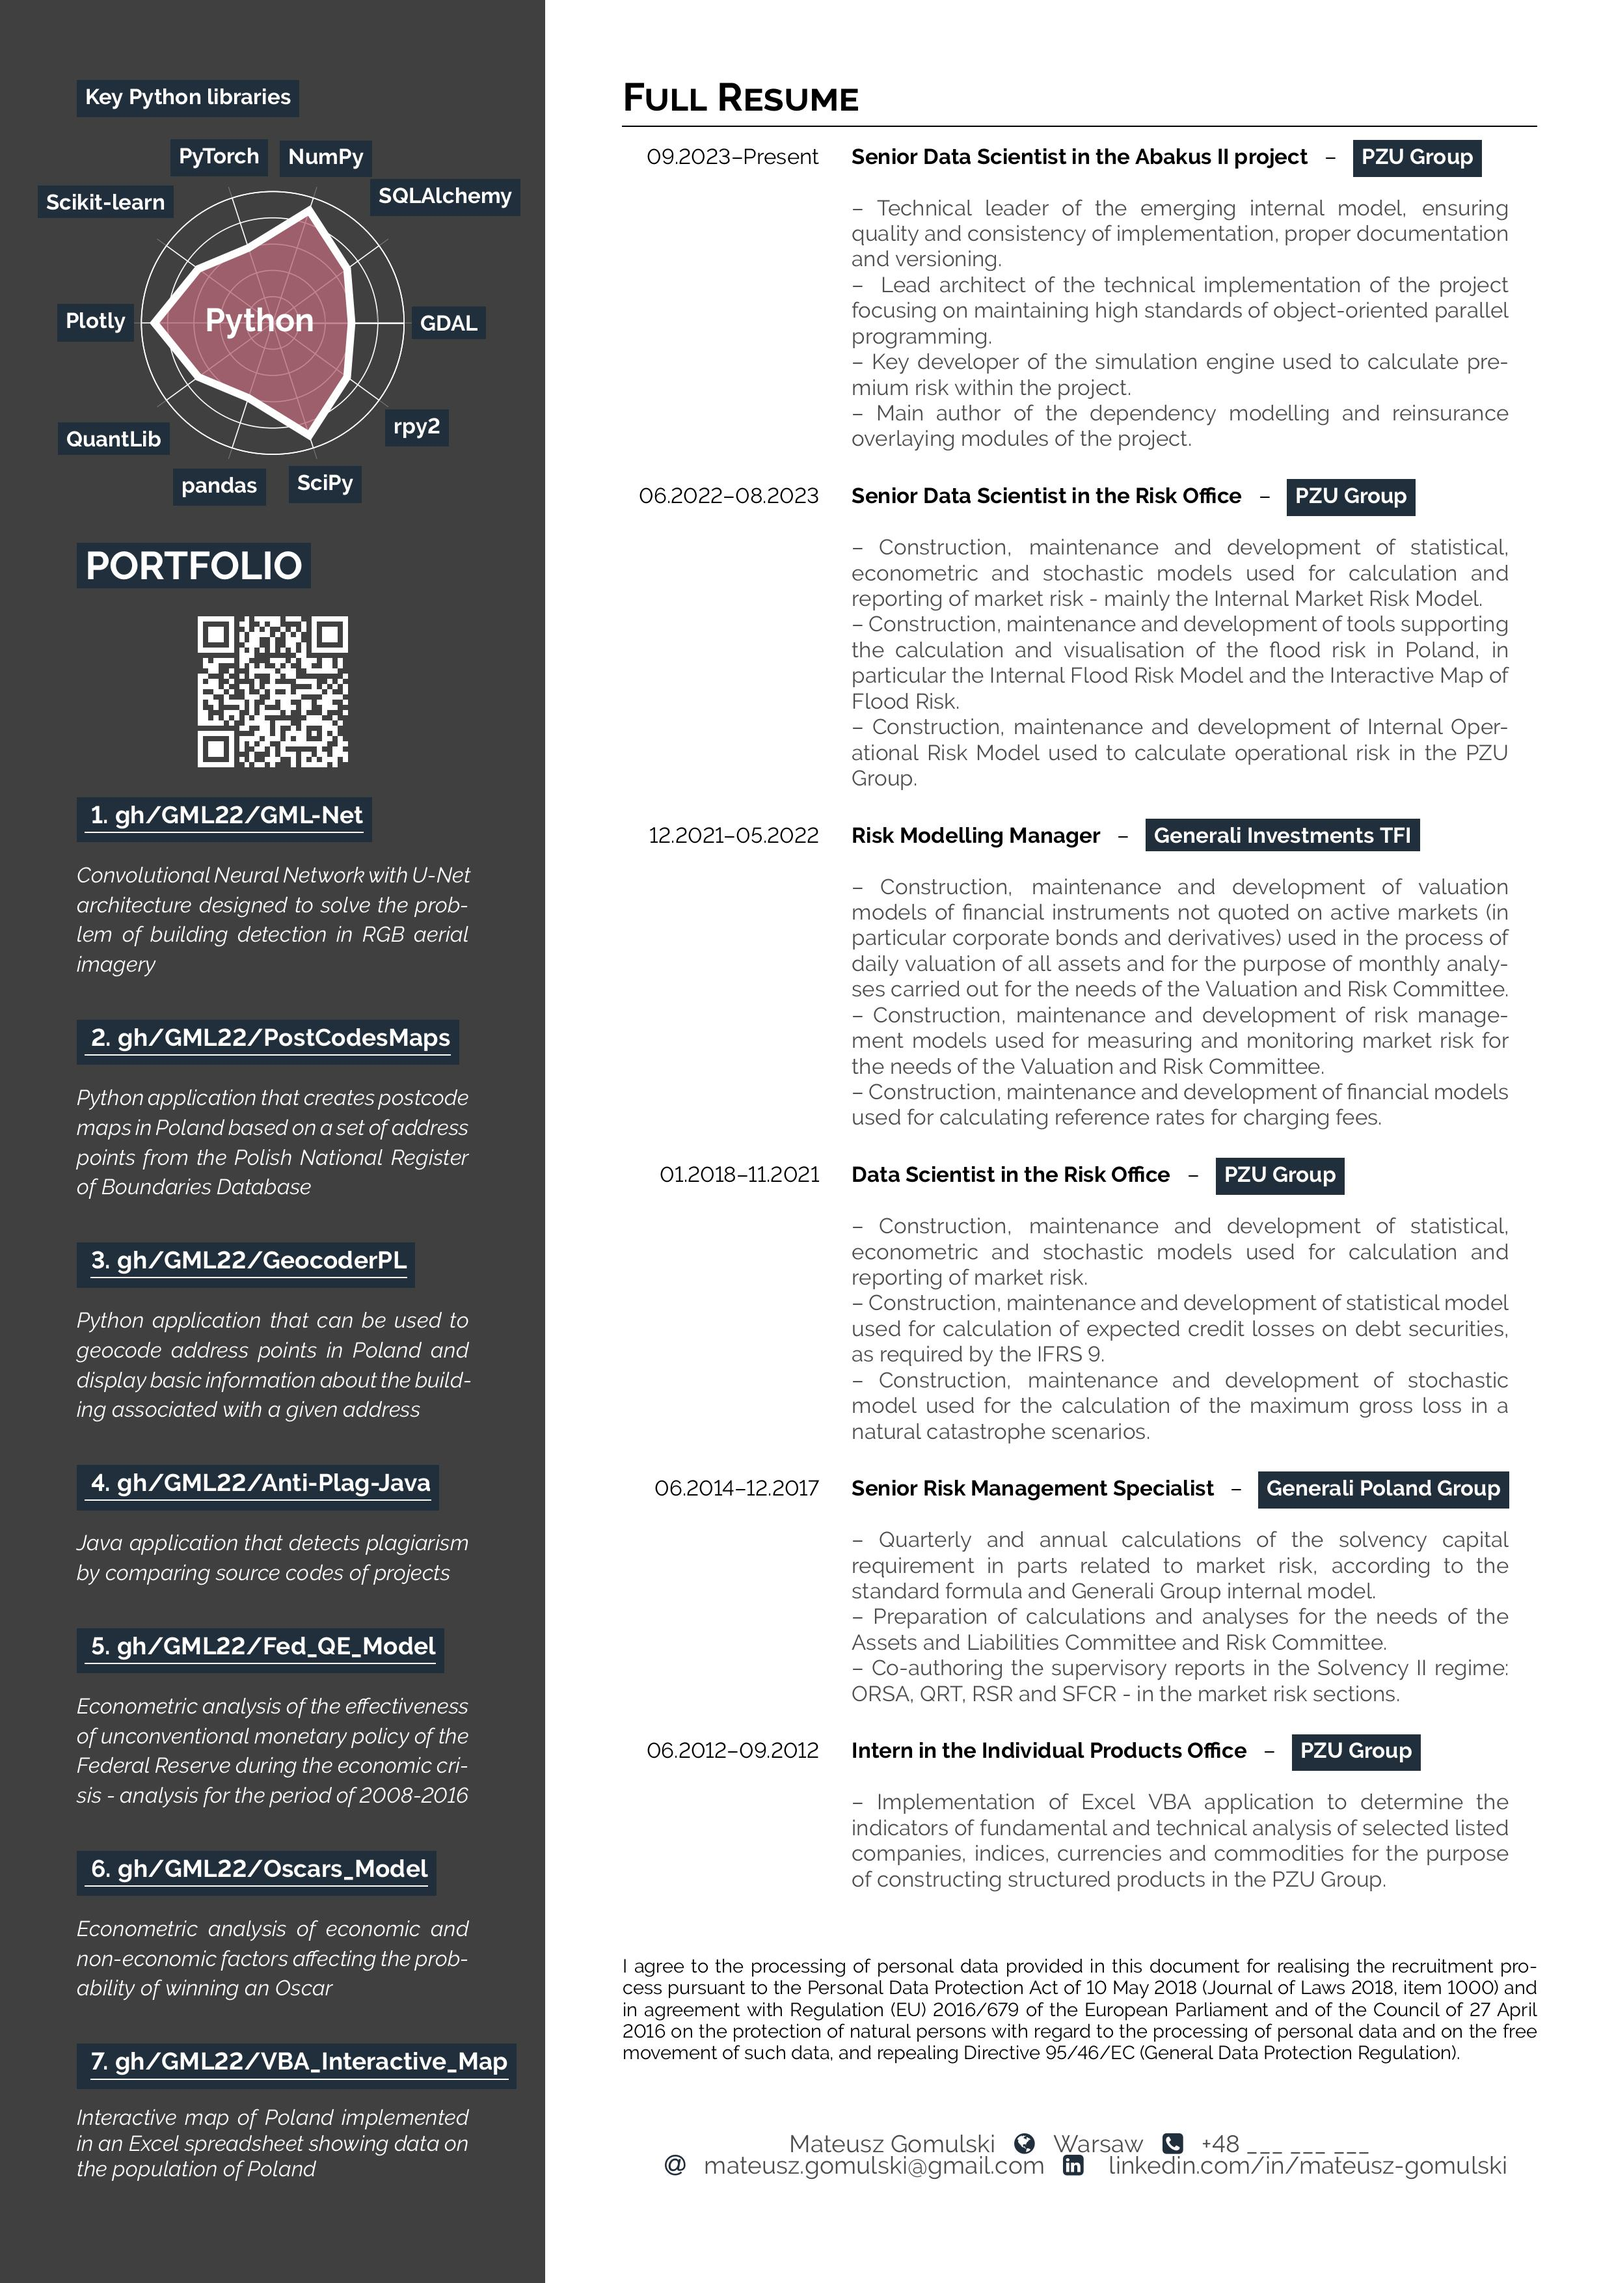
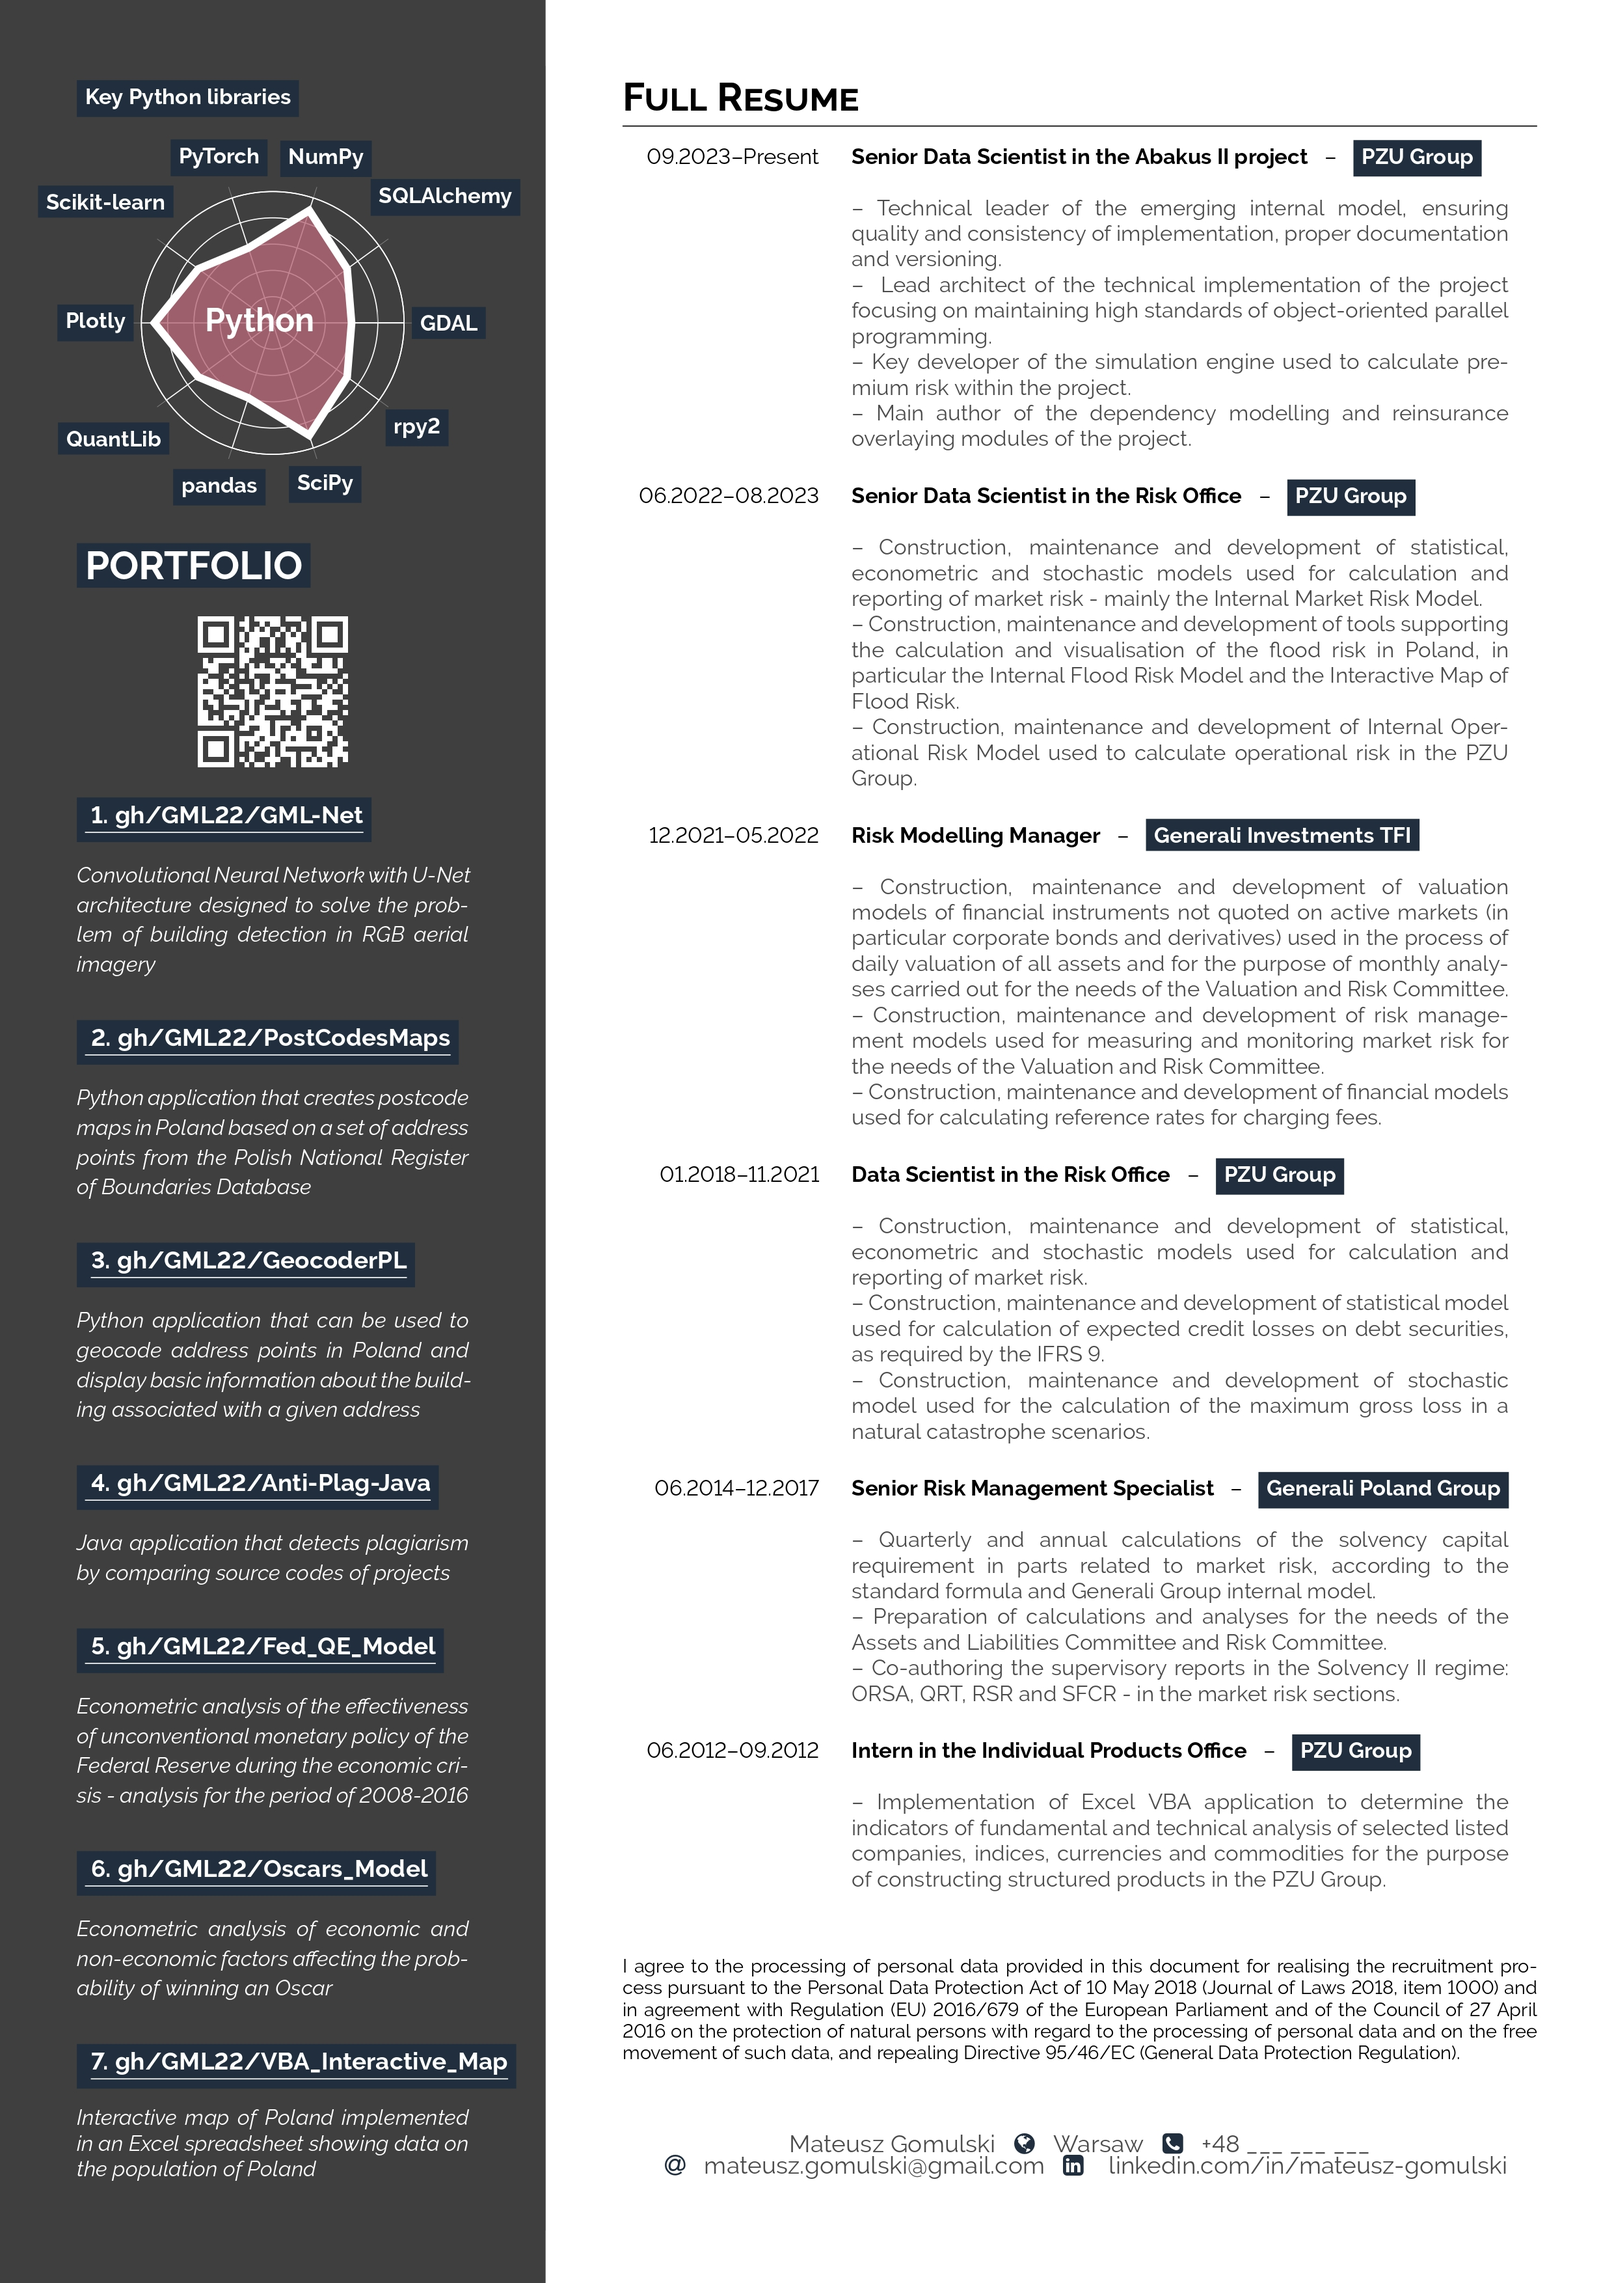
Update February 2025

diff --git a/gml_cv.tex b/gml_cv.tex
@@ -172,7 +172,7 @@ speaker} \\
             2em} \\
         \hobbyicon{\color{whitecol}\faServer}{\shortstack{Smart \\ Home}}{
             bluecol}{\Large}{2em} & 
-        \hobbyicon{\color{whitecol}\faShip}{\shortstack{3D \\ Modelling}}{
+        \hobbyicon{\color{whitecol}\faShip}{\shortstack{3D \\ Modeling}}{
             bluecol}{\Large}{2em} \\
         \hobbyicon{\color{whitecol}\faFilm}{Movies}{bluecol}{\Large}{2em} & 
         \hobbyicon{\color{whitecol}\faPlane}{Travels}{bluecol}{\Large}{2em} \\
